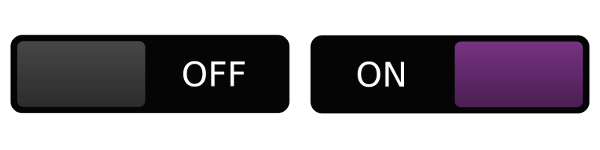
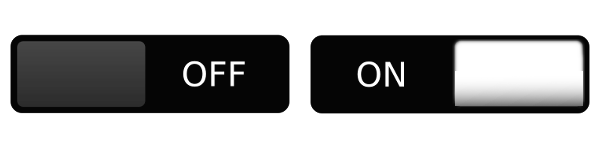
add port groups UI
Cherry-picked from sejerpz/mod-ui feature/port_group_ui (05217823),
the front half of mod-audio/mod-ui PR #155. The port-groups backend it
needs is already on the trunk (a8d326f9, 3265d63b) and the ctypes
segfault fix (1335a296) is already pinned here.

html/css/main.css is deliberately NOT taken from the source commit: its
only delta there is lessc regeneration noise (hex-colour case and
shorthand expansion, same 1710 rules, zero additions), and taking it
would revert the Tone3000 block the trunk added to that generated file.

(cherry picked from commit 69723ccc8eb5f6991ad6f6dec32c7e88a2cbc9ec)

Changed region(s): [[0.75, 0.24, 0.99, 0.72]]

diff --git a/html/css/pedals.css b/html/css/pedals.css
@@ -295,6 +295,7 @@ body > .mod-settings.mod-window-visible {
     position: absolute;
     left: 0;
     padding: 4px 10px;
+    margin-top: 5px;
 }
 .mod-presets .btn {
     font-size: 10px;
@@ -342,14 +343,24 @@ body > .mod-settings.mod-window-visible {
     float:left;
     height:160px;
     margin-bottom:2px;
-    margin-right:2px;
     position:relative;
     text-align:center;
     width:160px;
 }
 
+.mod-pedal-settings .mod-knob-background {
+    position: absolute;
+    left: 46px;
+    top: 42px;
+    width: 68px;
+    height: 68px;
+    overflow: hidden;
+    border-radius: 50%;
+    background-color: var(--no-group-color);
+}
+
 .mod-pedal-settings .mod-knob > span.mod-knob-current-value {
-    bottom:12px;
+    bottom:11px;
     font-weight:bold;
     left: 38px;
     position:absolute;
@@ -388,9 +399,9 @@ body > .mod-settings.mod-window-visible {
     display:block;
     font-size:11px;
     font-weight:bold;
-    height:11px;
+    height:23px;
     line-height:1;
-    margin:9px 0;
+    padding:6px 0px 3px 0px;
     position:relative;
     overflow:hidden;
     text-transform:uppercase;
@@ -541,9 +552,9 @@ body > .mod-settings.mod-window-visible {
     display:block;
     font-size:11px;
     font-weight:bold;
-    height:11px;
+    height:23px;
     line-height:1;
-    margin:9px 0;
+    padding:6px 0px 3px 0px;
     position:relative;
     overflow:hidden;
     text-align:center;
@@ -678,10 +689,19 @@ body > .mod-settings.mod-window-visible {
     float:left;
     height:160px;
     margin-bottom:2px;
-    margin-right:2px;
     position:relative;
     text-align:center;
     width:160px;
+}
+
+.mod-pedal-settings .mod-switch-background {
+    height: 23px;
+    left: 81px;
+    position: absolute;
+    overflow: hidden;
+    top: 77px;
+    width: 44px;
+    background-color: var(--no-group-color);
 }
 
 .mod-pedal-settings .mod-switch > span.mod-switch-title {
@@ -689,9 +709,9 @@ body > .mod-settings.mod-window-visible {
     display:block;
     font-size:11px;
     font-weight:bold;
-    height:11px;
+    height:23px;
     line-height:1;
-    margin:9px 0;
+    padding:6px 0px 3px 0px;
     position:relative;
     overflow:hidden;
     text-transform:uppercase;
@@ -890,6 +910,159 @@ body > .mod-settings.mod-window-visible {
 
 .mod-pedal-settings-address select {
     width:202px;
+}
+
+/* 32 Groups */
+:root {
+    --no-group-color: #883996;;
+    --group-0-color: #DE7558;
+    --group-1-color: #16ACA6;
+    --group-2-color: #74A16B;
+    --group-3-color: #EC2469;
+    --group-4-color: #860FDA;
+    --group-5-color: #D4BA3D;
+    --group-6-color: #819393;
+    --group-7-color: #9951BF;
+    --group-8-color: #DFB6A5;
+    --group-9-color: #B9A843;
+    --group-10-color: #81DEA8;
+    --group-11-color: #AB386B;
+    --group-12-color: #4D80DD;
+    --group-13-color: #EBE65A;
+    --group-14-color: #0B575B;
+    --group-15-color: #5755F7;
+    --group-16-color: #3DC745;
+    --group-17-color: #F51034;
+    --group-18-color: #84D08B;
+    --group-19-color: #CAB8B0;
+    --group-20-color: #425265;
+    --group-21-color: #341B05;
+    --group-22-color: #055538;
+    --group-23-color: #1AE35C;
+    --group-24-color: #9D0B8E;
+    --group-25-color: #6F8C9A;
+    --group-26-color: #F91114;
+    --group-27-color: #069758;
+    --group-28-color: #2340B9;
+    --group-29-color: #3F7CBB;
+    --group-30-color: #8185D4;
+    --group-31-color: #080F1F;
+}
+
+.mod-pedal-settings .mod-group.mod-group-start > .mod-group-item-title {
+    border-top-left-radius: 1px;
+    border-bottom-left-radius: 1px;
+}
+
+.mod-pedal-settings .mod-group.mod-group-end > .mod-group-item-title {
+    /* border-top-right-radius: 1px;
+    border-bottom-right-radius: 1px; */
+}
+
+.mod-pedal-settings .mod-group.mod-group-end {
+     margin-right:3px;
+}
+
+.mod-pedal-settings .mod-group-item-title  {
+     border-top-width: 3px;
+     border-top-style: solid;
+}
+
+.mod-pedal-settings .mod-group-0 > .mod-group-item-title {
+    border-top-color: var(--group-0-color);
+}
+.mod-pedal-settings .mod-group-1 > .mod-group-item-title {
+    border-top-color: var(--group-1-color);
+}
+.mod-pedal-settings .mod-group-2 > .mod-group-item-title {
+    border-top-color: var(--group-2-color);
+}
+.mod-pedal-settings .mod-group-3 > .mod-group-item-title {
+    border-top-color: var(--group-3-color);
+}
+.mod-pedal-settings .mod-group-4 > .mod-group-item-title {
+    border-top-color: var(--group-4-color);
+}
+.mod-pedal-settings .mod-group-5 > .mod-group-item-title {
+    border-top-color: var(--group-5-color);
+}
+.mod-pedal-settings .mod-group-6 > .mod-group-item-title {
+    border-top-color: var(--group-6-color);
+}
+.mod-pedal-settings .mod-group-7 > .mod-group-item-title {
+    border-top-color: var(--group-7-color);
+}
+.mod-pedal-settings .mod-group-8 > .mod-group-item-title {
+    border-top-color: var(--group-8-color);
+}
+.mod-pedal-settings .mod-group-9 > .mod-group-item-title {
+    border-top-color: var(--group-9-color);
+}
+.mod-pedal-settings .mod-group-10 > .mod-group-item-title {
+    border-top-color: var(--group-10-color);
+}
+.mod-pedal-settings .mod-group-11 > .mod-group-item-title {
+    border-top-color: var(--group-11-color);
+}
+.mod-pedal-settings .mod-group-12 > .mod-group-item-title {
+    border-top-color: var(--group-12-color);
+}
+.mod-pedal-settings .mod-group-13 > .mod-group-item-title {
+    border-top-color: var(--group-13-color);
+}
+.mod-pedal-settings .mod-group-14 > .mod-group-item-title {
+    border-top-color: var(--group-14-color);
+}
+.mod-pedal-settings .mod-group-15 > .mod-group-item-title {
+    border-top-color: var(--group-15-color);
+}
+.mod-pedal-settings .mod-group-16 > .mod-group-item-title {
+    border-top-color: var(--group-16-color);
+}
+.mod-pedal-settings .mod-group-17 > .mod-group-item-title {
+    border-top-color: var(--group-17-color);
+}
+.mod-pedal-settings .mod-group-18 > .mod-group-item-title {
+    border-top-color: var(--group-18-color);
+}
+.mod-pedal-settings .mod-group-19 > .mod-group-item-title {
+    border-top-color: var(--group-19-color);
+}
+.mod-pedal-settings .mod-group-20 > .mod-group-item-title {
+    border-top-color: var(--group-20-color);
+}
+.mod-pedal-settings .mod-group-21 > .mod-group-item-title {
+    border-top-color: var(--group-21-color);
+}
+.mod-pedal-settings .mod-group-22 > .mod-group-item-title {
+    border-top-color: var(--group-22-color);
+}
+.mod-pedal-settings .mod-group-23 > .mod-group-item-title {
+    border-top-color: var(--group-23-color);
+}
+.mod-pedal-settings .mod-group-24 > .mod-group-item-title {
+    border-top-color: var(--group-24-color);
+}
+.mod-pedal-settings .mod-group-25 > .mod-group-item-title {
+    border-top-color: var(--group-25-color);
+}
+.mod-pedal-settings .mod-group-26 > .mod-group-item-title {
+    border-top-color: var(--group-26-color);
+}
+.mod-pedal-settings .mod-group-27 > .mod-group-item-title {
+    border-top-color: var(--group-27-color);
+}
+.mod-pedal-settings .mod-group-28 > .mod-group-item-title {
+    border-top-color: var(--group-28-color);
+}
+.mod-pedal-settings .mod-group-29 > .mod-group-item-title {
+    border-top-color: var(--group-29-color);
+}
+.mod-pedal-settings .mod-group-30 > .mod-group-item-title {
+    border-top-color: var(--group-30-color);
+}
+.mod-pedal-settings .mod-group-31 > .mod-group-item-title {
+    border-top-color: var(--group-31-color);
 }
 
 /* FIXME put it in the right place */

diff --git a/html/resources/settings.html b/html/resources/settings.html
@@ -8,6 +8,7 @@
             <div class="mod-switch bypass">
                 <span class="mod-switch-title">ON/OFF</span>
                 <div class="mod-light on" mod-role="bypass-light"></div>
+                <div class="mod-switch-background"></div>
                 <div class="mod-switch-image" mod-role="bypass"></div>
                 <div class="mod-address" mod-role="bypass-address"></div>
             </div>
@@ -94,8 +95,8 @@
 
             {{#effect.ports.control.input}}
             {{#enumeration}}
-            <div class="mod-enumerated">
-                <span class="mod-enumerated-title">{{shortName}}</span>
+            <div class="mod-enumerated{{#group}} mod-group{{#groupStart}} mod-group-start{{/groupStart}} mod-group-{{groupCssIndex}}{{#groupEnd}} mod-group-end{{/groupEnd}}{{/group}}">
+                <span class="mod-enumerated-title{{#group}} mod-group-item-title{{/group}}">{{shortName}}</span>
                 <div class="mod-address" mod-role="input-control-address" mod-port-symbol="{{symbol}}"></div>
                 <div class="mod-enumerated-list" mod-role="input-control-port" mod-port-symbol="{{symbol}}" mod-widget="custom-select">
                     {{#scalePoints}}
@@ -107,11 +108,17 @@
             {{^enumeration}}
                 {{^trigger}}
                     {{^toggled}}
-                    <div class="mod-knob" title="{{comment}}">
-                        <span class="mod-knob-title">{{shortName}}</span>
+                    <div class="mod-knob{{#group}} mod-group{{#groupStart}} mod-group-start{{/groupStart}} mod-group-{{groupCssIndex}}{{#groupEnd}} mod-group-end{{/groupEnd}}{{/group}}" title="{{comment}}">
+                        <span class="mod-knob-title{{#group}} mod-group-item-title{{/group}}">{{shortName}}</span>
                         <span class="mod-knob-min-value" mod-role="input-control-minimum" mod-port-symbol="{{symbol}}"></span>
                         <span class="mod-knob-max-value" mod-role="input-control-maximum" mod-port-symbol="{{symbol}}"></span>
                         <span class="mod-knob-current-value" mod-role="input-control-value" mod-port-symbol="{{symbol}}"></span>
+                        {{#group}}
+                        <div class="mod-knob-background" style="background-color: var(--group-{{groupCssIndex}}-color);"></div>
+                        {{/group}}
+                        {{^group}}
+                        <div class="mod-knob-background"></div>
+                        {{/group}}
                         {{#integer}}
                         <div class="mod-knob-image mod-knob-image-steps-{{steps}}" mod-role="input-control-port" mod-port-symbol="{{symbol}}" mod-widget="film"></div>
                         {{/integer}}
@@ -122,8 +129,14 @@
                     </div>
                     {{/toggled}}
                     {{#toggled}}
-                    <div class="mod-switch" title="{{comment}}">
-                        <span class="mod-switch-title">{{shortName}}</span>
+                    <div class="mod-switch{{#group}} mod-group{{#groupStart}} mod-group-start{{/groupStart}} mod-group-{{groupCssIndex}}{{#groupEnd}} mod-group-end{{/groupEnd}}{{/group}}" title="{{comment}}">
+                        <span class="mod-switch-title{{#group}} mod-group-item-title{{/group}}">{{shortName}}</span>
+                        {{#group}}
+                        <div class="mod-switch-background" style="background-color: var(--group-{{groupCssIndex}}-color);"></div>
+                        {{/group}}
+                        {{^group}}
+                        <div class="mod-switch-background"></div>
+                        {{/group}}
                         <div class="mod-switch-image" mod-role="input-control-port" mod-port-symbol="{{symbol}}" mod-widget="film"></div>
                         <div class="mod-address" mod-role="input-control-address" mod-port-symbol="{{symbol}}"></div>
                     </div>

diff --git a/html/js/host.js b/html/js/host.js
@@ -371,6 +371,62 @@ $('document').ready(function() {
                     success: function (pluginData) {
                         var instancekey = '[mod-instance="' + instance + '"]'
 
+                        // resolve groups
+                        pluginData.ports.control.input.forEach(function (port, index) {
+                            const groupUri = port.group;
+                            port.groupIndex = undefined;
+                            port.groupCssIndex = undefined; // index used for css coloring
+
+                            if (pluginData.portGroups && groupUri) {
+                                port.group = pluginData.portGroups.find(function (group) {
+                                    return group.uri === port.group;
+                                });
+
+                                if (port.group) {
+                                    port.groupStart = false;
+                                    port.groupEnd = false;
+                                    port.groupIndex = pluginData.portGroups.indexOf(port.group);
+                                    port.groupCssIndex =  port.groupIndex % 32;  // 32 = max supported groups by css
+                                }
+                            }
+                        });
+
+                        // sort port with groups
+                        pluginData.ports.control.input.sort(function (a, b) {
+                            if (a.groupIndex < b.groupIndex) {
+                                return -1;
+                            } else if (a.groupIndex > b.groupIndex) {
+                                return 1;
+                            } else {
+                                return a.index - b.index;
+                            }
+                        });
+
+                        // add start or end group flags
+                        let prevPort = undefined;
+                        pluginData.ports.control.input.forEach(function (port, index) {
+                            if (port.group)
+                            {
+                                if (prevPort === undefined || prevPort.group === undefined) {
+                                    port.groupStart = true;
+                                } else {
+                                    if (prevPort.groupIndex != port.groupIndex) {
+                                        port.groupStart = true;
+
+                                        if (prevPort.group) {
+                                            prevPort.groupEnd = true;
+                                        }
+                                    }
+                                }
+                            }
+
+                            prevPort = port;
+                        });
+
+                        if (prevPort.group) {
+                            prevPort.groupEnd = true;
+                        }
+
                         if (!$(instancekey).length) {
                             var cb = function () {
                                 desktop.pedalboard.pedalboard('scheduleAdapt', false)
